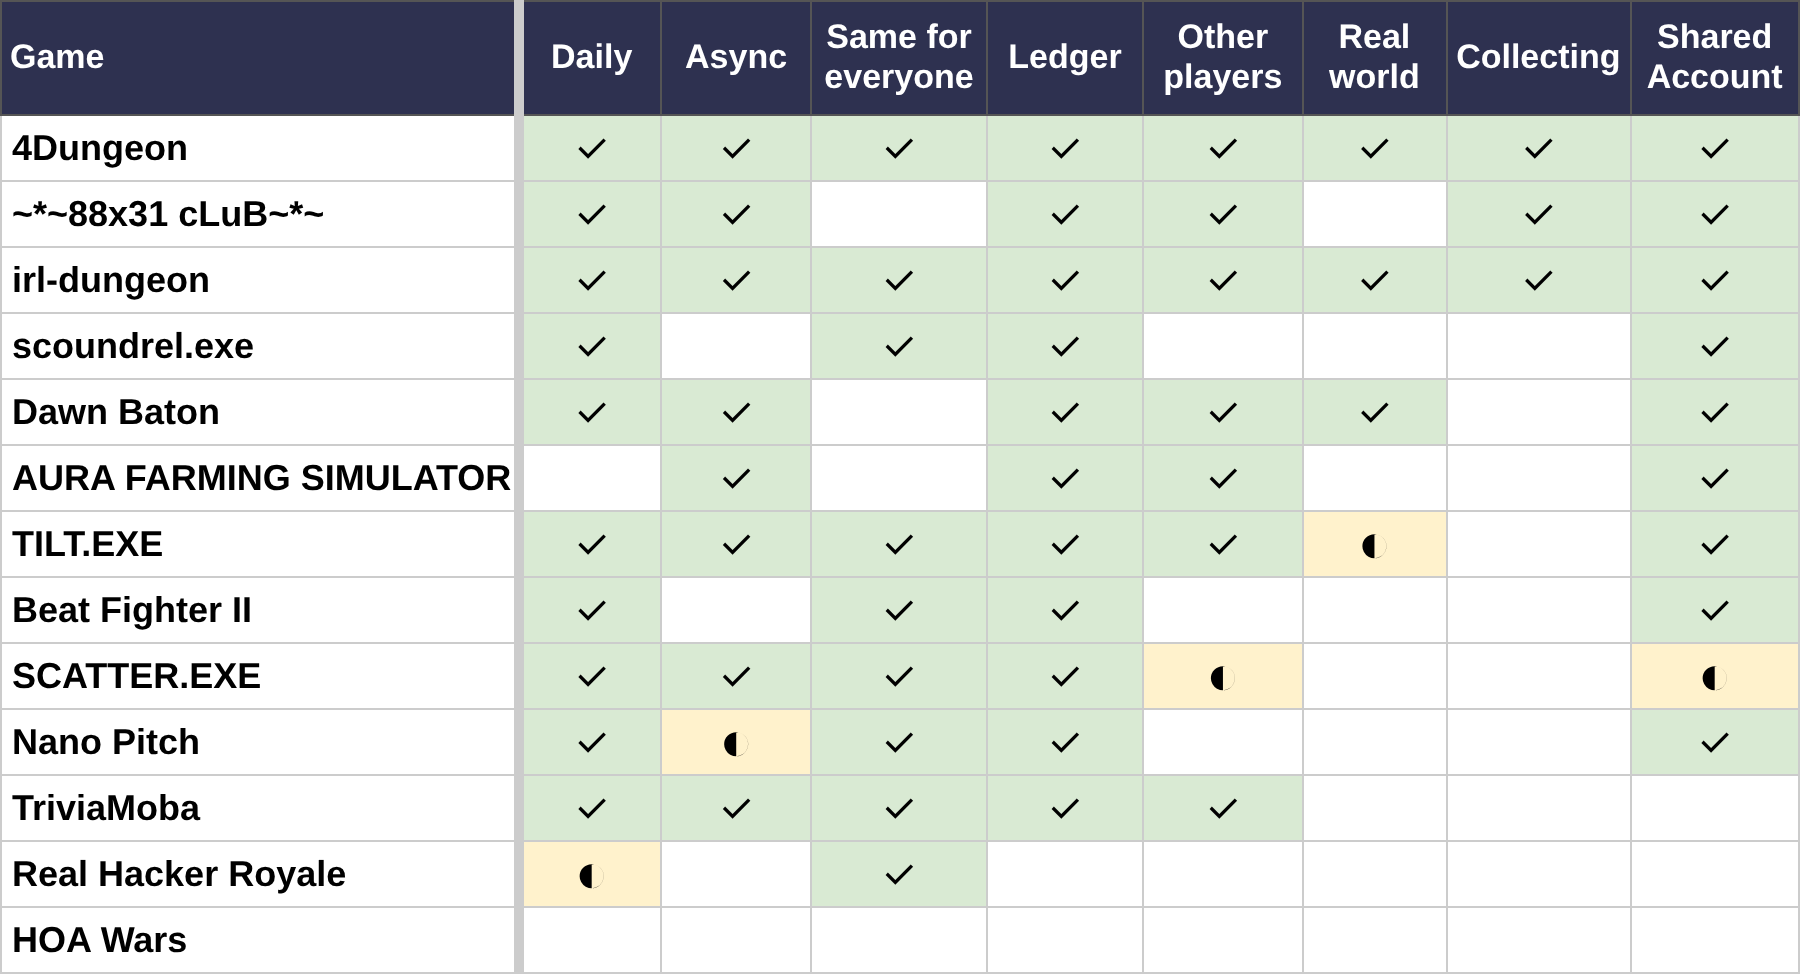
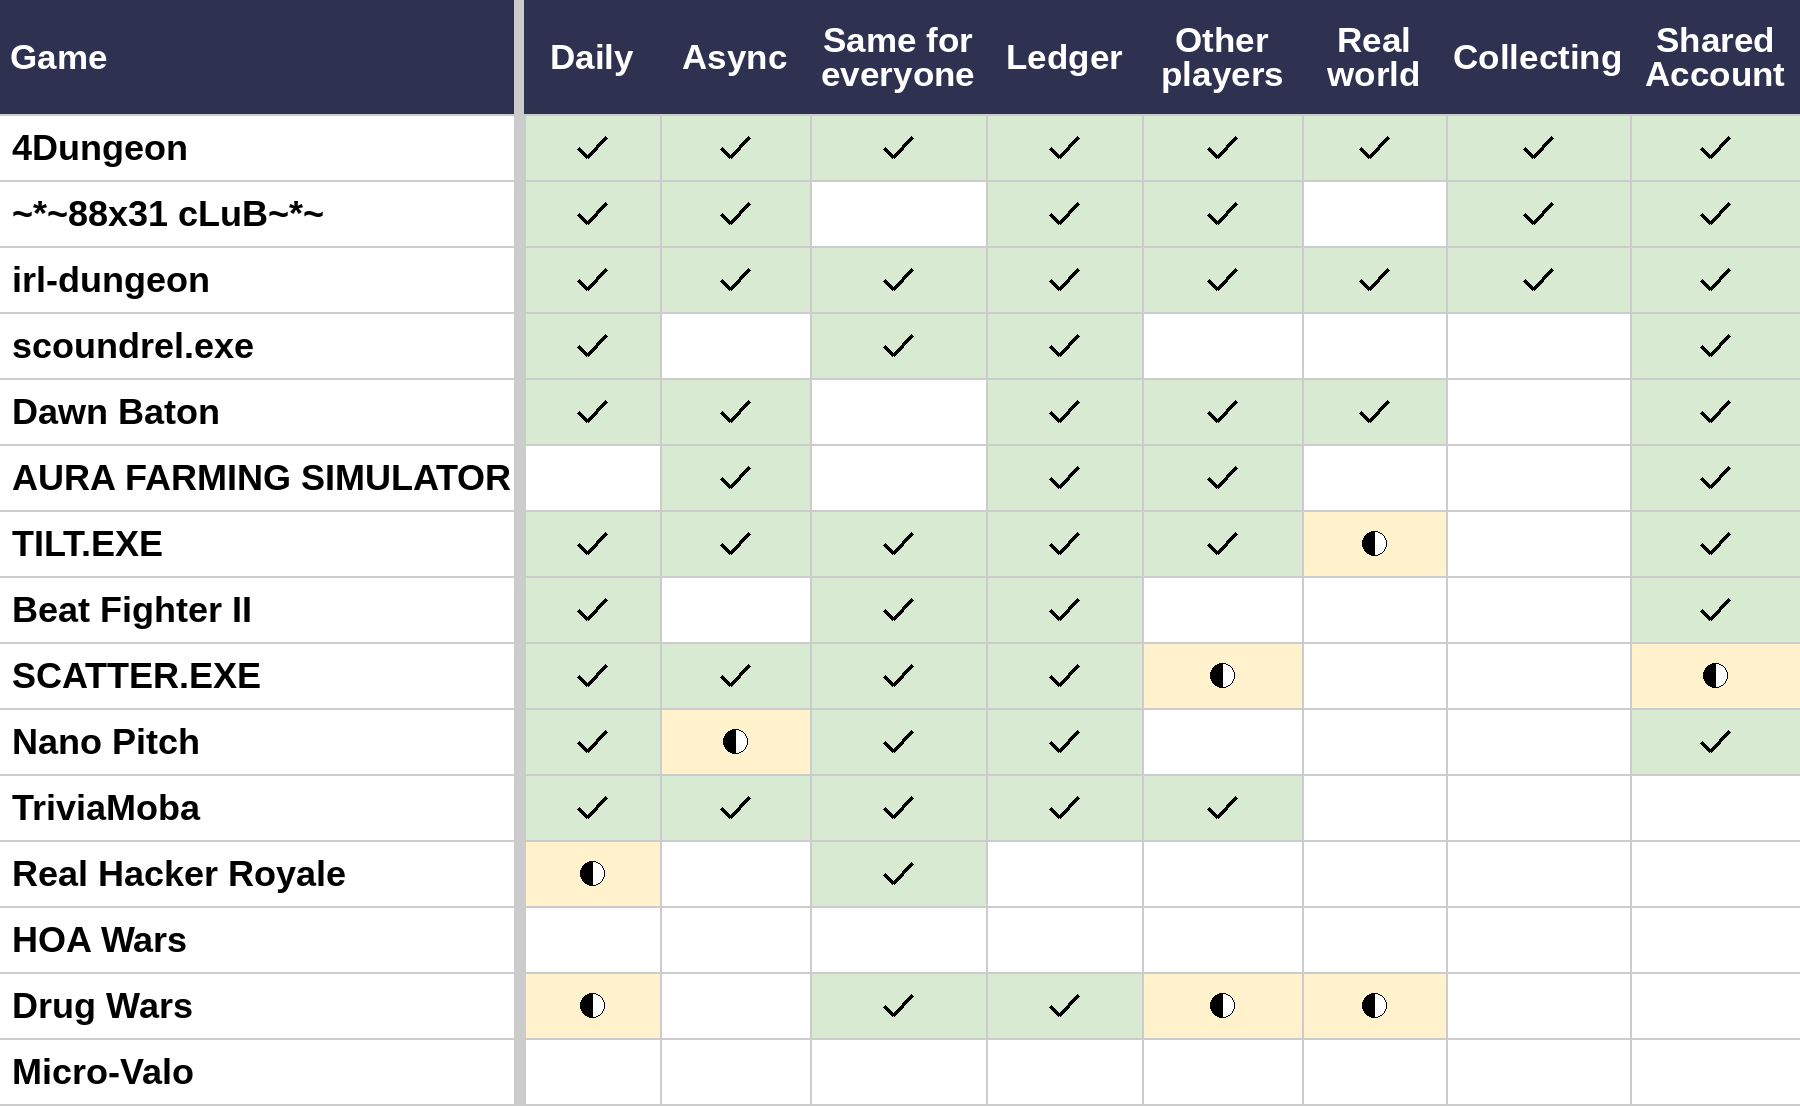
Add Drug Wars and Micro-Valo to the list and chart
Claude-Session: https://claude.ai/code/session_01AfCXR46aTZ1FccaEGTAUDM

diff --git a/index.html b/index.html
@@ -75,6 +75,8 @@
     <li><span class="nolink">*REAL HACKER</span><br>(concept only, async PVP puzzle)</li>
     <li><a href="https://br.88x31.app" target="_blank" rel="noopener">Real Hacker Royale</a><br>the smolest ASCII BR (α)</li>
     <li><a href="https://hoa.88x31.app" target="_blank" rel="noopener">HOA Wars</a><br>light-cycle battle against Karen</li>
+    <li><a href="https://dw.88x31.app" target="_blank" rel="noopener">Drug Wars</a><br>30-turn dealing runs, one shared market and a daily board</li>
+    <li><a href="https://valo.88x31.app" target="_blank" rel="noopener">Micro-Valo</a><br>the Valorant buy screen as a game, five guns a round</li>
     <li><span class="nolink">*TELL.EXE</span><br>(concept only, daily hidden-number chip game)</li>
   </ul>
 
